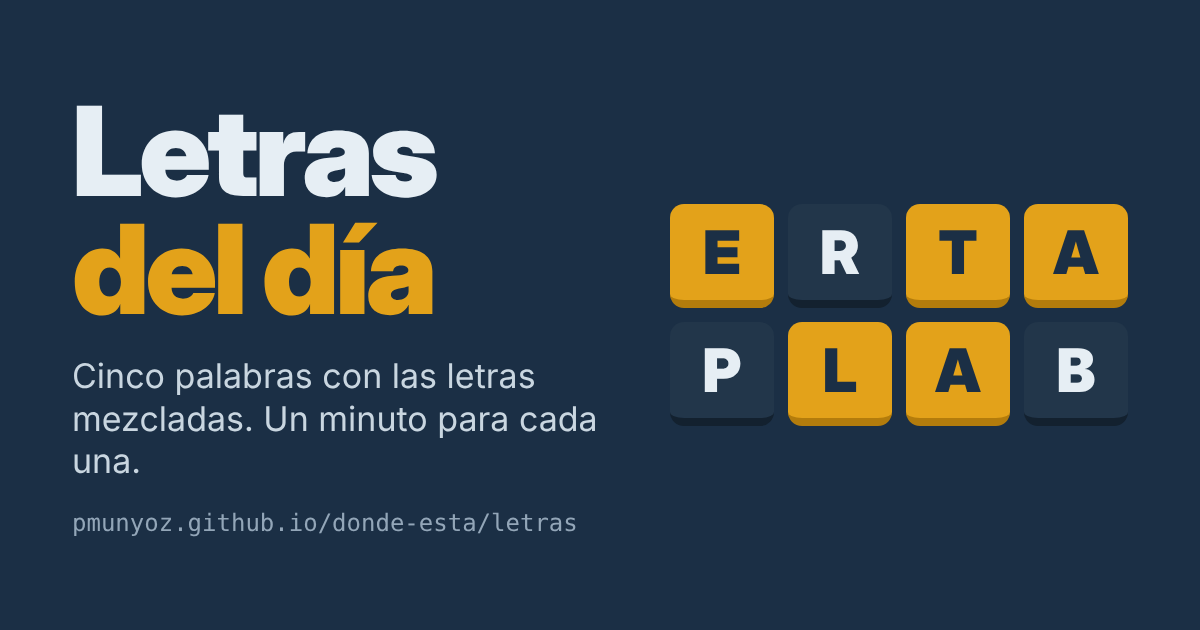
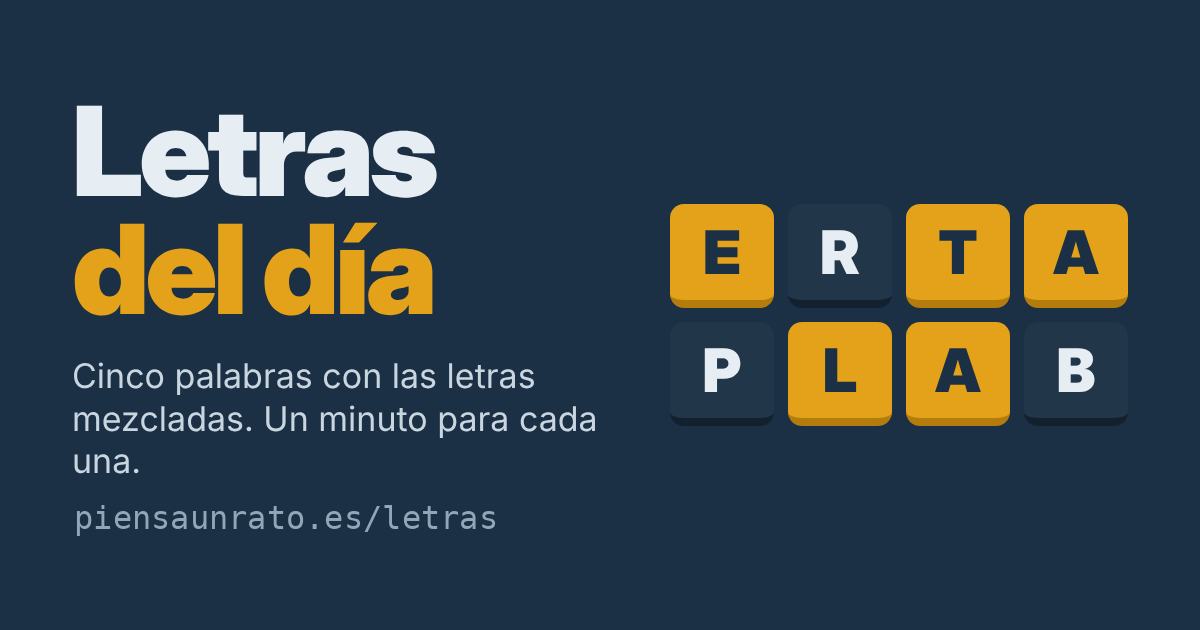
Dominio propio piensaunrato.es
- CNAME para GitHub Pages
- Direcciones canónicas, de vista previa, sitemap y robots apuntando a https://piensaunrato.es/
- Vistas previas al compartir con la nueva dirección

Claude-Session: https://claude.ai/code/session_01RYfkN6dB1Rx25rpQeeU37E

Changed region(s): [[0.0617, 0.8143, 0.4933, 0.8444]]

diff --git a/profes.html b/profes.html
@@ -5,7 +5,7 @@
 <meta name="viewport" content="width=device-width,initial-scale=1,viewport-fit=cover">
 <title>Retos para clase · Crea tu propio ¿Dónde está? y Letras</title>
 <meta name="description" content="Herramienta gratuita para profesores: crea un juego de palabras desordenadas o de adivinar un lugar de España con tus pistas, y compártelo con tus alumnos con un enlace o un QR.">
-<link rel="canonical" href="https://pmunyoz.github.io/donde-esta/profes.html">
+<link rel="canonical" href="https://piensaunrato.es/profes.html">
 <link rel="icon" href="icon-donde.svg" type="image/svg+xml">
 <link rel="apple-touch-icon" href="icon-donde-180.png">
 <meta name="theme-color" content="#1B2F45">
@@ -14,15 +14,15 @@
 <meta property="og:site_name" content="¿Dónde está? · Letras del día">
 <meta property="og:title" content="Retos para clase · Crea tu propio ¿Dónde está? y Letras">
 <meta property="og:description" content="Herramienta gratuita para profesores: crea un juego de palabras desordenadas o de adivinar un lugar de España con tus pistas, y compártelo con tus alumnos con un enlace o un QR.">
-<meta property="og:url" content="https://pmunyoz.github.io/donde-esta/profes.html">
-<meta property="og:image" content="https://pmunyoz.github.io/donde-esta/og-profes.png">
+<meta property="og:url" content="https://piensaunrato.es/profes.html">
+<meta property="og:image" content="https://piensaunrato.es/og-profes.png">
 <meta property="og:image:width" content="1200">
 <meta property="og:image:height" content="630">
 <meta name="twitter:card" content="summary_large_image">
 <meta name="twitter:title" content="Retos para clase · Crea tu propio ¿Dónde está? y Letras">
 <meta name="twitter:description" content="Herramienta gratuita para profesores: crea un juego de palabras desordenadas o de adivinar un lugar de España con tus pistas, y compártelo con tus alumnos con un enlace o un QR.">
-<meta name="twitter:image" content="https://pmunyoz.github.io/donde-esta/og-profes.png">
-<script type="application/ld+json">{"@context": "https://schema.org", "@type": "WebApplication", "name": "Retos para clase", "url": "https://pmunyoz.github.io/donde-esta/profes.html", "description": "Herramienta gratuita para profesores: crea un juego de palabras desordenadas o de adivinar un lugar de España con tus pistas, y compártelo con tus alumnos con un enlace o un QR.", "applicationCategory": "GameApplication", "operatingSystem": "Cualquiera (navegador web)", "inLanguage": "es", "isAccessibleForFree": true, "offers": {"@type": "Offer", "price": "0", "priceCurrency": "EUR"}, "author": {"@type": "Person", "name": "Pascual Muñoz"}}</script>
+<meta name="twitter:image" content="https://piensaunrato.es/og-profes.png">
+<script type="application/ld+json">{"@context": "https://schema.org", "@type": "WebApplication", "name": "Retos para clase", "url": "https://piensaunrato.es/profes.html", "description": "Herramienta gratuita para profesores: crea un juego de palabras desordenadas o de adivinar un lugar de España con tus pistas, y compártelo con tus alumnos con un enlace o un QR.", "applicationCategory": "GameApplication", "operatingSystem": "Cualquiera (navegador web)", "inLanguage": "es", "isAccessibleForFree": true, "offers": {"@type": "Offer", "price": "0", "priceCurrency": "EUR"}, "author": {"@type": "Person", "name": "Pascual Muñoz"}}</script>
 <link rel="preconnect" href="https://fonts.googleapis.com">
 <link rel="stylesheet" href="https://fonts.googleapis.com/css2?family=Bricolage+Grotesque:opsz,wght@12..96,500;12..96,800&family=Archivo:wght@400;500;600&family=JetBrains+Mono:wght@500&display=swap">
 <style>

diff --git a/index.html b/index.html
@@ -5,7 +5,7 @@
 <meta name="viewport" content="width=device-width,initial-scale=1,viewport-fit=cover">
 <title>¿Dónde está? · Adivina el pueblo o la ciudad de España del día</title>
 <meta name="description" content="Cada día, una ciudad o pueblo de España. Adivínalo en 6 intentos con pistas, distancia y dirección en el mapa. Gratis, sin registro y con liga para jugar con amigos.">
-<link rel="canonical" href="https://pmunyoz.github.io/donde-esta/">
+<link rel="canonical" href="https://piensaunrato.es/">
 <link rel="icon" href="icon-donde.svg" type="image/svg+xml">
 <link rel="apple-touch-icon" href="icon-donde-180.png">
 <meta name="theme-color" content="#1B2F45">
@@ -14,15 +14,15 @@
 <meta property="og:site_name" content="¿Dónde está? · Letras del día">
 <meta property="og:title" content="¿Dónde está? · Adivina el pueblo o la ciudad de España del día">
 <meta property="og:description" content="Cada día, una ciudad o pueblo de España. Adivínalo en 6 intentos con pistas, distancia y dirección en el mapa. Gratis, sin registro y con liga para jugar con amigos.">
-<meta property="og:url" content="https://pmunyoz.github.io/donde-esta/">
-<meta property="og:image" content="https://pmunyoz.github.io/donde-esta/og-donde.png">
+<meta property="og:url" content="https://piensaunrato.es/">
+<meta property="og:image" content="https://piensaunrato.es/og-donde.png">
 <meta property="og:image:width" content="1200">
 <meta property="og:image:height" content="630">
 <meta name="twitter:card" content="summary_large_image">
 <meta name="twitter:title" content="¿Dónde está? · Adivina el pueblo o la ciudad de España del día">
 <meta name="twitter:description" content="Cada día, una ciudad o pueblo de España. Adivínalo en 6 intentos con pistas, distancia y dirección en el mapa. Gratis, sin registro y con liga para jugar con amigos.">
-<meta name="twitter:image" content="https://pmunyoz.github.io/donde-esta/og-donde.png">
-<script type="application/ld+json">{"@context": "https://schema.org", "@type": "WebApplication", "name": "¿Dónde está?", "url": "https://pmunyoz.github.io/donde-esta/", "description": "Cada día, una ciudad o pueblo de España. Adivínalo en 6 intentos con pistas, distancia y dirección en el mapa. Gratis, sin registro y con liga para jugar con amigos.", "applicationCategory": "GameApplication", "operatingSystem": "Cualquiera (navegador web)", "inLanguage": "es", "isAccessibleForFree": true, "offers": {"@type": "Offer", "price": "0", "priceCurrency": "EUR"}, "author": {"@type": "Person", "name": "Pascual Muñoz"}}</script>
+<meta name="twitter:image" content="https://piensaunrato.es/og-donde.png">
+<script type="application/ld+json">{"@context": "https://schema.org", "@type": "WebApplication", "name": "¿Dónde está?", "url": "https://piensaunrato.es/", "description": "Cada día, una ciudad o pueblo de España. Adivínalo en 6 intentos con pistas, distancia y dirección en el mapa. Gratis, sin registro y con liga para jugar con amigos.", "applicationCategory": "GameApplication", "operatingSystem": "Cualquiera (navegador web)", "inLanguage": "es", "isAccessibleForFree": true, "offers": {"@type": "Offer", "price": "0", "priceCurrency": "EUR"}, "author": {"@type": "Person", "name": "Pascual Muñoz"}}</script>
 <meta name="claude:viewport-fit-sides" content="cover">
 <link rel="preconnect" href="https://fonts.googleapis.com">
 <link rel="stylesheet" href="https://fonts.googleapis.com/css2?family=Bricolage+Grotesque:opsz,wght@12..96,500;12..96,800&family=Archivo:wght@400;500;600&family=JetBrains+Mono:wght@500&display=swap">

diff --git a/letras.html b/letras.html
@@ -5,7 +5,7 @@
 <meta name="viewport" content="width=device-width,initial-scale=1,viewport-fit=cover">
 <title>Letras del día · Juego diario de palabras desordenadas</title>
 <meta name="description" content="Cada día, cinco palabras con las letras mezcladas, de 5 a 10 letras. Un minuto por palabra y hasta 25 puntos. Gratis, en español y sin registro.">
-<link rel="canonical" href="https://pmunyoz.github.io/donde-esta/letras.html">
+<link rel="canonical" href="https://piensaunrato.es/letras.html">
 <link rel="icon" href="icon-letras.svg" type="image/svg+xml">
 <link rel="apple-touch-icon" href="icon-letras-180.png">
 <meta name="theme-color" content="#1B2F45">
@@ -14,15 +14,15 @@
 <meta property="og:site_name" content="¿Dónde está? · Letras del día">
 <meta property="og:title" content="Letras del día · Juego diario de palabras desordenadas">
 <meta property="og:description" content="Cada día, cinco palabras con las letras mezcladas, de 5 a 10 letras. Un minuto por palabra y hasta 25 puntos. Gratis, en español y sin registro.">
-<meta property="og:url" content="https://pmunyoz.github.io/donde-esta/letras.html">
-<meta property="og:image" content="https://pmunyoz.github.io/donde-esta/og-letras.png">
+<meta property="og:url" content="https://piensaunrato.es/letras.html">
+<meta property="og:image" content="https://piensaunrato.es/og-letras.png">
 <meta property="og:image:width" content="1200">
 <meta property="og:image:height" content="630">
 <meta name="twitter:card" content="summary_large_image">
 <meta name="twitter:title" content="Letras del día · Juego diario de palabras desordenadas">
 <meta name="twitter:description" content="Cada día, cinco palabras con las letras mezcladas, de 5 a 10 letras. Un minuto por palabra y hasta 25 puntos. Gratis, en español y sin registro.">
-<meta name="twitter:image" content="https://pmunyoz.github.io/donde-esta/og-letras.png">
-<script type="application/ld+json">{"@context": "https://schema.org", "@type": "WebApplication", "name": "Letras del día", "url": "https://pmunyoz.github.io/donde-esta/letras.html", "description": "Cada día, cinco palabras con las letras mezcladas, de 5 a 10 letras. Un minuto por palabra y hasta 25 puntos. Gratis, en español y sin registro.", "applicationCategory": "GameApplication", "operatingSystem": "Cualquiera (navegador web)", "inLanguage": "es", "isAccessibleForFree": true, "offers": {"@type": "Offer", "price": "0", "priceCurrency": "EUR"}, "author": {"@type": "Person", "name": "Pascual Muñoz"}}</script>
+<meta name="twitter:image" content="https://piensaunrato.es/og-letras.png">
+<script type="application/ld+json">{"@context": "https://schema.org", "@type": "WebApplication", "name": "Letras del día", "url": "https://piensaunrato.es/letras.html", "description": "Cada día, cinco palabras con las letras mezcladas, de 5 a 10 letras. Un minuto por palabra y hasta 25 puntos. Gratis, en español y sin registro.", "applicationCategory": "GameApplication", "operatingSystem": "Cualquiera (navegador web)", "inLanguage": "es", "isAccessibleForFree": true, "offers": {"@type": "Offer", "price": "0", "priceCurrency": "EUR"}, "author": {"@type": "Person", "name": "Pascual Muñoz"}}</script>
 <meta name="claude:viewport-fit-sides" content="cover">
 <link rel="preconnect" href="https://fonts.googleapis.com">
 <link rel="stylesheet" href="https://fonts.googleapis.com/css2?family=Bricolage+Grotesque:opsz,wght@12..96,500;12..96,800&family=Archivo:wght@400;500;600&family=JetBrains+Mono:wght@500&display=swap">

diff --git a/cifras.html b/cifras.html
@@ -5,7 +5,7 @@
 <meta name="viewport" content="width=device-width,initial-scale=1,viewport-fit=cover">
 <title>Cifras del día · Juego diario de números</title>
 <meta name="description" content="Cada día, tres retos de números: seis cifras y un objetivo, con sumas, restas, multiplicaciones y divisiones. Gratis, en español y sin registro.">
-<link rel="canonical" href="https://pmunyoz.github.io/donde-esta/cifras.html">
+<link rel="canonical" href="https://piensaunrato.es/cifras.html">
 <link rel="icon" href="icon-cifras.svg" type="image/svg+xml">
 <link rel="apple-touch-icon" href="icon-cifras-180.png">
 <meta name="theme-color" content="#1B2F45">
@@ -14,15 +14,15 @@
 <meta property="og:site_name" content="¿Dónde está? · Letras del día">
 <meta property="og:title" content="Cifras del día · Juego diario de números">
 <meta property="og:description" content="Cada día, tres retos de números: seis cifras y un objetivo, con sumas, restas, multiplicaciones y divisiones. Gratis, en español y sin registro.">
-<meta property="og:url" content="https://pmunyoz.github.io/donde-esta/cifras.html">
-<meta property="og:image" content="https://pmunyoz.github.io/donde-esta/og-cifras.png">
+<meta property="og:url" content="https://piensaunrato.es/cifras.html">
+<meta property="og:image" content="https://piensaunrato.es/og-cifras.png">
 <meta property="og:image:width" content="1200">
 <meta property="og:image:height" content="630">
 <meta name="twitter:card" content="summary_large_image">
 <meta name="twitter:title" content="Cifras del día · Juego diario de números">
 <meta name="twitter:description" content="Cada día, tres retos de números: seis cifras y un objetivo, con sumas, restas, multiplicaciones y divisiones. Gratis, en español y sin registro.">
-<meta name="twitter:image" content="https://pmunyoz.github.io/donde-esta/og-cifras.png">
-<script type="application/ld+json">{"@context": "https://schema.org", "@type": "WebApplication", "name": "Cifras del día", "url": "https://pmunyoz.github.io/donde-esta/cifras.html", "description": "Cada día, tres retos de números: seis cifras y un objetivo, con sumas, restas, multiplicaciones y divisiones. Gratis, en español y sin registro.", "applicationCategory": "GameApplication", "operatingSystem": "Cualquiera (navegador web)", "inLanguage": "es", "isAccessibleForFree": true, "offers": {"@type": "Offer", "price": "0", "priceCurrency": "EUR"}, "author": {"@type": "Person", "name": "Pascual Muñoz"}}</script>
+<meta name="twitter:image" content="https://piensaunrato.es/og-cifras.png">
+<script type="application/ld+json">{"@context": "https://schema.org", "@type": "WebApplication", "name": "Cifras del día", "url": "https://piensaunrato.es/cifras.html", "description": "Cada día, tres retos de números: seis cifras y un objetivo, con sumas, restas, multiplicaciones y divisiones. Gratis, en español y sin registro.", "applicationCategory": "GameApplication", "operatingSystem": "Cualquiera (navegador web)", "inLanguage": "es", "isAccessibleForFree": true, "offers": {"@type": "Offer", "price": "0", "priceCurrency": "EUR"}, "author": {"@type": "Person", "name": "Pascual Muñoz"}}</script>
 <meta name="claude:viewport-fit-sides" content="cover">
 <link rel="preconnect" href="https://fonts.googleapis.com">
 <link rel="stylesheet" href="https://fonts.googleapis.com/css2?family=Bricolage+Grotesque:opsz,wght@12..96,500;12..96,800&family=Archivo:wght@400;500;600&family=JetBrains+Mono:wght@500&display=swap">

diff --git a/archivo.html b/archivo.html
@@ -5,7 +5,7 @@
 <meta name="viewport" content="width=device-width,initial-scale=1,viewport-fit=cover">
 <title>Días anteriores · ¿Dónde está?, Letras y Cifras del día</title>
 <meta name="description" content="Juega los retos de días anteriores de ¿Dónde está? (adivina el pueblo o la ciudad de España) de Letras del día (palabras desordenadas) y de Cifras del día (números). Gratis y sin registro.">
-<link rel="canonical" href="https://pmunyoz.github.io/donde-esta/archivo.html">
+<link rel="canonical" href="https://piensaunrato.es/archivo.html">
 <link rel="icon" href="icon-donde.svg" type="image/svg+xml">
 <link rel="apple-touch-icon" href="icon-donde-180.png">
 <meta name="theme-color" content="#1B2F45">
@@ -14,8 +14,8 @@
 <meta property="og:site_name" content="¿Dónde está? · Letras del día">
 <meta property="og:title" content="Días anteriores · ¿Dónde está? y Letras del día">
 <meta property="og:description" content="¿Te perdiste algún día? Juega los retos anteriores de ¿Dónde está?, Letras y Cifras del día.">
-<meta property="og:url" content="https://pmunyoz.github.io/donde-esta/archivo.html">
-<meta property="og:image" content="https://pmunyoz.github.io/donde-esta/og-donde.png">
+<meta property="og:url" content="https://piensaunrato.es/archivo.html">
+<meta property="og:image" content="https://piensaunrato.es/og-donde.png">
 <meta name="twitter:card" content="summary_large_image">
 <link rel="preconnect" href="https://fonts.googleapis.com">
 <link rel="stylesheet" href="https://fonts.googleapis.com/css2?family=Bricolage+Grotesque:opsz,wght@12..96,500;12..96,800&family=Archivo:wght@400;500;600&family=JetBrains+Mono:wght@500&display=swap">

diff --git a/privacidad.html b/privacidad.html
@@ -5,7 +5,7 @@
 <meta name="viewport" content="width=device-width,initial-scale=1">
 <title>Privacidad · ¿Dónde está?, Letras y Cifras del día</title>
 <meta name="description" content="Qué datos usan ¿Dónde está?, Letras y Cifras del día, dónde se guardan y qué servicios externos intervienen.">
-<link rel="canonical" href="https://pmunyoz.github.io/donde-esta/privacidad.html">
+<link rel="canonical" href="https://piensaunrato.es/privacidad.html">
 <link rel="icon" href="icon-donde.svg" type="image/svg+xml">
 <style>
 :root{--ink:#1B2F45;--muted:#5F7286;--bg:#EEF3F6;--signal:#E3A21A}
